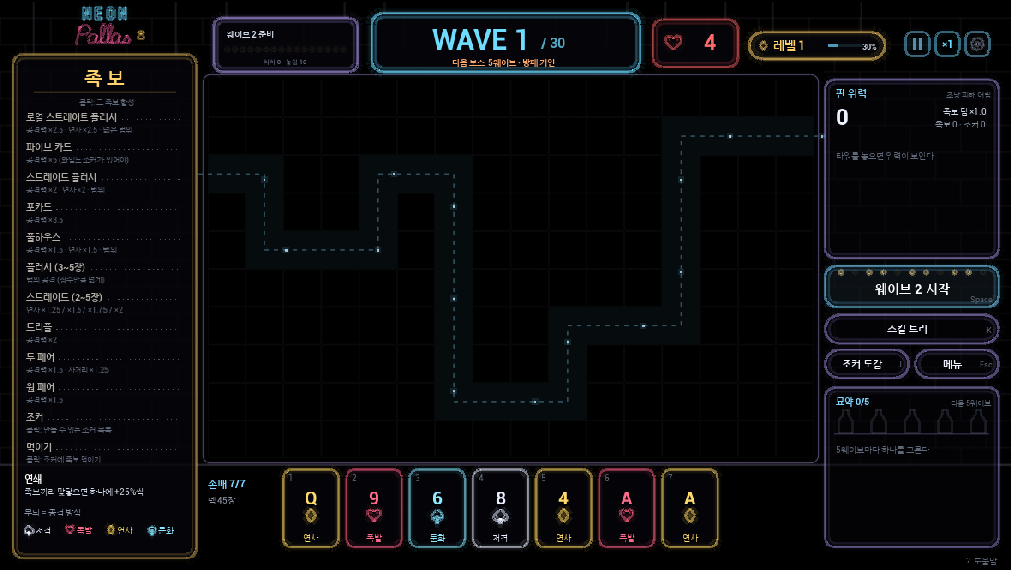
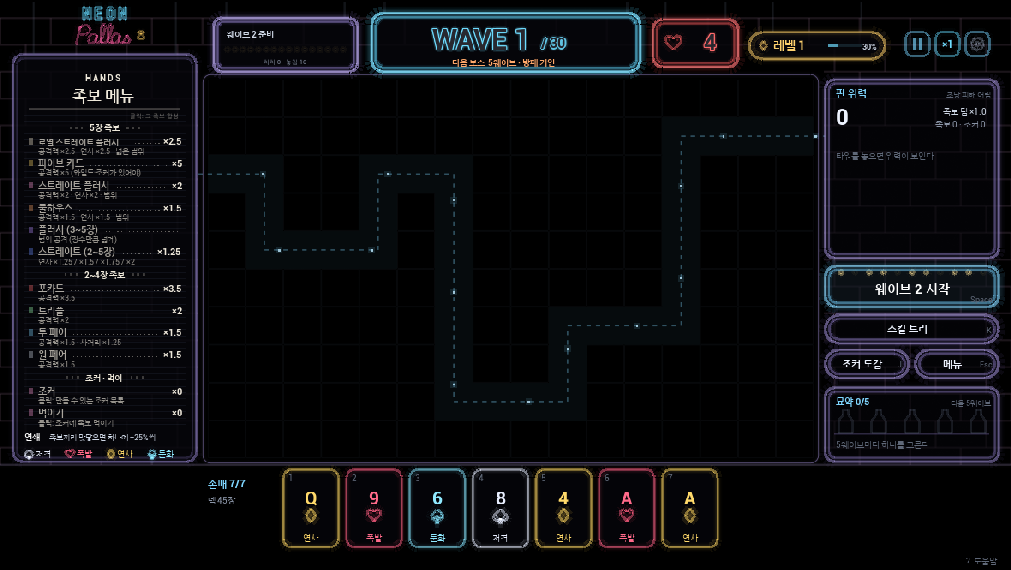
In-game B closer to the mockup: panels end at the floor, hollow neon numbers, brighter tubes; letterboard hand menu back (D-275)

diff --git a/Source/ProjectB/PDBoardPaint.cpp b/Source/ProjectB/PDBoardPaint.cpp
@@ -1898,8 +1898,10 @@ void SPDBoardWidget::PaintHud(FCanvas& C) const
 	{
 		for (const float Wx : {X + 16.f, X + W - 16.f}) C.Lines({FVector2f(Wx, 0.f), FVector2f(Wx, Y)}, Wire, 1.f);
 		C.Box(X, Y, W, H, Hex(TEXT("06060b"), 0.85f));
-		C.Glow(FCanvas::RoundRectPoints(X, Y, W, H, R), FLinearColor(Col.R * B, Col.G * B, Col.B * B, 1.f), 1.9f, NK * B);
-		C.Lines(FCanvas::RoundRectPoints(X + 5.f, Y + 5.f, W - 10.f, H - 10.f, FMath::Max(2.f, R - 5.f)), WithAlpha(Col, 0.5f * B), 0.9f);
+		const TArray<FVector2f> Ro = FCanvas::RoundRectPoints(X, Y, W, H, R), Ri = FCanvas::RoundRectPoints(X + 5.f, Y + 5.f, W - 10.f, H - 10.f, FMath::Max(2.f, R - 5.f));
+		C.Glow(Ro, FLinearColor(Col.R * B, Col.G * B, Col.B * B, 1.f), 2.2f, 1.1f * B);
+		C.Lines(Ro, FLinearColor(1.f, 1.f, 1.f, 0.35f * B), 0.6f); // 흰 심 (D-275)
+		C.Glow(Ri, FLinearColor(Col.R * B * 0.8f, Col.G * B * 0.8f, Col.B * B * 0.8f, 1.f), 1.2f, 0.5f * B);
 	};
 	PaintLogoBadge(C, LX + LW / 2.f, 6.f, 0.27f);
 	// 남은 적: 전구 16개가 남은 비율만큼 켜짐 (준비 중 + 자동 시작이면 시작까지 차오름)
@@ -1908,7 +1910,7 @@ void SPDBoardWidget::PaintHud(FCanvas& C) const
 		const bool bWave = G.Phase == EPDPhase::Wave, bAuto = G.Phase == EPDPhase::Build && G.AutoStartT >= 0.f;
 		float Frac = 0.f;
 		if (bWave) { const int32 Left = G.WaveLeft(), Tot = FMath::Max(1, G.WaveTotal); Frac = FMath::Clamp(Left / (float)Tot, 0.f, 1.f);
-			C.Text(TEXT("남은 적"), SignEnX + 16.f, SignEnY + 24.f, Fg, 11.f, 0, true);
+			C.Text(TEXT("남은 적"), SignEnX + 16.f, SignEnY + 24.f, Fg, 12.f, 0, true);
 			C.Text(FString::Printf(TEXT("%d / %d"), Left, G.WaveTotal), SignEnX + SignEnW - 16.f, SignEnY + 24.f, FLinearColor::White, 13.f, 2, true); }
 		else
 		{
@@ -1932,8 +1934,8 @@ void SPDBoardWidget::PaintHud(FCanvas& C) const
 		const FString Wv = FString::Printf(TEXT("WAVE %d"), G.Wave);
 		const float WvW = FCanvas::Measure(Wv, FCanvas::Font(36.f, true)).X;
 		const float GoalX = SignWvX + SignWvW / 2.f + (G.Goal() > 0 ? -30.f : 0.f);
-		C.Text(Wv, GoalX - WvW / 2.f, SignWvY + 46.f, bNow ? Red : Cyan, 36.f, 0, true);
-		if (G.Goal() > 0) C.Text(FString::Printf(TEXT("/ %d"), G.Goal()), GoalX + WvW / 2.f + 12.f, SignWvY + 44.f, WithAlpha(Cyan, 0.75f), 17.f, 0, true);
+		NeonText(C, Wv, GoalX - WvW / 2.f, SignWvY + 46.f, bNow ? Red : Cyan, 36.f, 0, 1.f);
+		if (G.Goal() > 0) NeonText(C, FString::Printf(TEXT("/ %d"), G.Goal()), GoalX + WvW / 2.f + 12.f, SignWvY + 44.f, Cyan, 17.f, 0, 0.75f);
 		const EPDEnemy B = FPDGame::BossOfWave(BW);
 		C.TextCentered(bNow ? TrF(TEXT("보스 웨이브 · %s"), BossName(B)) : TrF(TEXT("다음 보스  %d웨이브 · %s"), BW, BossName(B)),
 			SignWvX + SignWvW / 2.f, SignWvY + 62.f, bNow ? Red : Orange, 10.f, true, SignWvW - 40.f);
@@ -1943,7 +1945,7 @@ void SPDBoardWidget::PaintHud(FCanvas& C) const
 		const bool bLow = G.Lives <= 5;
 		Sign(SignLfX, SignLfY, SignLfW, SignLfH, 12.f, bLow ? Red : Pink, bLow ? 0.6f + 0.4f * Pulse : 0.9f);
 		C.Shape(EPDSuit::Heart, SignLfX + 26.f, SignLfY + SignLfH / 2.f, 11.f, bLow ? Red : Pink, 1.5f, 0.5f);
-		C.TextCentered(FString::FromInt(G.Lives), SignLfX + 72.f, SignLfY + SignLfH / 2.f, bLow ? Red : Pink, G.Lives >= 100 ? 20.f : 26.f, true, 60.f);
+		NeonText(C, FString::FromInt(G.Lives), SignLfX + 72.f, SignLfY + SignLfH / 2.f + 10.f, bLow ? Red : Pink, G.Lives >= 100 ? 20.f : 26.f, 1, 1.f);
 	}
 	// 레벨 알약 (금색): 마름모 + 레벨 + 경험치 막대 + %. 남은 포인트가 있으면 숨쉰다
 	{
@@ -2011,7 +2013,8 @@ void SPDBoardWidget::PaintPanels(FCanvas& C) const
 		const float X = HandCardX(I, (int32)G.Hand.size()), Y = HandY - (bSel ? 10.f : 0.f);
 		const FLinearColor Col = SuitColor(Card.Suit);
 		C.Box(X, Y, CardW, CardH, Hex(TEXT("06060b"), 0.7f));
-		C.Glow(FCanvas::RoundRectPoints(X, Y, CardW, CardH, 10.f), bSel ? FLinearColor::White : Col, bSel ? 2.4f : 1.4f, bSel ? 1.4f : 0.6f);
+		C.Glow(FCanvas::RoundRectPoints(X, Y, CardW, CardH, 10.f), bSel ? Hex(TEXT("ff6aaa")) : Col, bSel ? 2.4f : 1.4f, bSel ? 1.2f : 0.6f);
+		if (bSel) C.Shape(EPDSuit::Heart, X + CardW / 2.f, Y - 12.f, 6.f, Hex(TEXT("ff6aaa")), 1.3f, 0.5f); // 고른 카드 하트 (D-275)
 		C.CardShape(Card, X + CardW / 2.f, Y + CardH / 2.f - 6.f, 30.f, 1.f, bSel, Pulse, false);
 		C.TextCentered(SuitName(Card.Suit), X + CardW / 2.f, Y + CardH - 12.f, Col, 10.f, false, CardW - 6.f);
 		C.Text(FString::FromInt(I + 1), X + 7.f, Y + 14.f, Dim, 10.f);
@@ -2025,8 +2028,10 @@ void SPDBoardWidget::PaintPanels(FCanvas& C) const
 	// 두 겹 튜브 틀 (D-254/255, 연보라 D-260)
 	auto Frame2 = [&](float X, float Y, float W, float H, float R, const FLinearColor& Col, float B)
 	{
-		C.Glow(FCanvas::RoundRectPoints(X, Y, W, H, R), FLinearColor(Col.R * B, Col.G * B, Col.B * B, 1.f), 1.7f, 0.6f * B);
-		C.Lines(FCanvas::RoundRectPoints(X + 5.f, Y + 5.f, W - 10.f, H - 10.f, FMath::Max(2.f, R - 5.f)), WithAlpha(Col, 0.45f * B), 0.9f);
+		const TArray<FVector2f> Ro = FCanvas::RoundRectPoints(X, Y, W, H, R), Ri = FCanvas::RoundRectPoints(X + 5.f, Y + 5.f, W - 10.f, H - 10.f, FMath::Max(2.f, R - 5.f));
+		C.Glow(Ro, FLinearColor(Col.R * B, Col.G * B, Col.B * B, 1.f), 2.f, 1.f * B);
+		C.Lines(Ro, FLinearColor(1.f, 1.f, 1.f, 0.3f * B), 0.6f); // 흰 심 (D-275)
+		C.Glow(Ri, FLinearColor(Col.R * B * 0.8f, Col.G * B * 0.8f, Col.B * B * 0.8f, 1.f), 1.1f, 0.45f * B);
 	};
 	C.Box(RX, FY, PW, PowCardH, Hex(TEXT("06060b"), 0.6f));
 	Frame2(RX, FY, PW, PowCardH, 12.f, LavP, 0.7f);
@@ -2136,7 +2141,7 @@ void SPDBoardWidget::PaintPanels(FCanvas& C) const
 	}
 	// ---- 부적: 이름·설명
 	{
-		const float H = DesignH - 30.f - CharmY;
+		const float H = FloorY - 4.f - CharmY; // 바닥선에서 끝 (D-275)
 		const int32 N = (int32)G.Charms.size();
 		C.Box(RX, CharmY, PW, H, Hex(TEXT("06060b"), 0.6f));
 		Frame2(RX, CharmY, PW, H, 12.f, LavP, 0.6f);
@@ -2159,12 +2164,17 @@ void SPDBoardWidget::PaintPanels(FCanvas& C) const
 				if (bHave) C.Box(BXc - 7.f, SY - 12.f, 14.f, 9.f, WithAlpha(Bc, 0.35f));
 			}
 		}
-		if (N == 0) C.Text(TrF(TEXT("%d웨이브마다 하나를 고른다"), CharmEvery), RX + 14.f, CharmY + 82.f, Dim, 10.f, 0, false, PW - 28.f);
-		for (int32 I = 0; I < N; ++I)
+		if (N == 0) C.Text(TrF(TEXT("%d웨이브마다 하나를 고른다"), CharmEvery), RX + 14.f, CharmY + 76.f, Dim, 10.f, 0, false, PW - 28.f);
+		else C.Text(TEXT("병에 마우스: 이름 · 설명"), RX + 14.f, CharmY + 76.f, Dim, 9.f, 0, false, PW - 28.f);
+		for (int32 I = 0; I < N; ++I) // 병 툴팁 (D-275): 패널이 바닥선에서 끝나 목록 대신
 		{
-			const float Y = CharmY + 78.f + I * 24.f;
-			C.Text(CharmName((int)G.Charms[I]), RX + 14.f, Y, UiValue, 10.f, 0, true, PW - 28.f);
-			C.Text(CharmDesc((int)G.Charms[I]), RX + 14.f, Y + 12.f, Grey, 9.f, 0, false, PW - 28.f);
+			const float BXc = RX + 26.f + I * (PW - 52.f) / (CharmMax - 1), SY = CharmY + 58.f;
+			if (!InRect(Mouse, BXc - 12.f, SY - 32.f, 24.f, 34.f)) continue;
+			const float TW = 260.f, TH = 52.f, TX = FMath::Min(BXc - 20.f, DesignW - 8.f - TW) - 120.f, TY = SY - 32.f - TH - 6.f;
+			C.Box(TX, TY, TW, TH, Hex(TEXT("0a0910"), 0.97f));
+			C.Glow(FCanvas::RoundRectPoints(TX, TY, TW, TH, 8.f), Hex(TEXT("ffd26e")), 1.2f, 0.4f);
+			C.Text(CharmName((int)G.Charms[I]), TX + 12.f, TY + 20.f, UiValue, 12.f, 0, true, TW - 24.f);
+			C.Text(CharmDesc((int)G.Charms[I]), TX + 12.f, TY + 40.f, Fg, 10.f, 0, false, TW - 24.f);
 		}
 	}
 	// ---- 도움말: 마우스를 올리면 키 안내
@@ -2913,10 +2923,21 @@ void SPDBoardWidget::PaintLoading(FCanvas& C) const
 
 // 왼쪽 족보 안내 (D-119): 이름 + 효과 한 줄. 판 위에 있는 족보는 밝게, 개수 표시
 // 도움말 카드 (D-217): 가리킬 자리 둘레에 숨 쉬는 고리 + 카드에서 이어지는 선, 카드엔 제목·설명·[알겠어]·[도움말 끄기]
+// 속 빈 네온 글자 (D-275): 둘레 번짐(옅게 8방향) → 글자색 테두리(8방향 1.3px) → 속은 어두운 색 → 가는 흰 심. Align 0 왼쪽, 1 가운데, 2 오른쪽
+void SPDBoardWidget::NeonText(FCanvas& C, const FString& S, float X, float Y, const FLinearColor& Col, float Px, int32 Align, float B)
+{
+	const FLinearColor CB(Col.R * B, Col.G * B, Col.B * B, 1.f);
+	static const float Dx[8] = {1.f, 0.707f, 0.f, -0.707f, -1.f, -0.707f, 0.f, 0.707f}, Dy[8] = {0.f, 0.707f, 1.f, 0.707f, 0.f, -0.707f, -1.f, -0.707f};
+	for (int32 K = 0; K < 8; ++K) C.Text(S, X + Dx[K] * 3.5f, Y + Dy[K] * 3.5f, FLinearColor(Col.R, Col.G, Col.B, 0.1f * B), Px, Align, true);
+	for (int32 K = 0; K < 8; ++K) C.Text(S, X + Dx[K] * 1.3f, Y + Dy[K] * 1.3f, CB, Px, Align, true);
+	C.Text(S, X, Y, Hex(TEXT("0a0a12")), Px, Align, true);
+	C.Text(S, X, Y, FLinearColor(1.f, 1.f, 1.f, 0.12f * B), Px, Align, true);
+}
+
 // 인게임 바 배경 (D-274, 시안 B): 흐린 벽돌 벽 (판 뒤는 비움) + 바닥선. 손패는 바닥선 아래
 void SPDBoardWidget::PaintBarBack(FCanvas& C) const
 {
-	const FLinearColor Brick = Hex(TEXT("3c303a"), 0.5f);
+	const FLinearColor Brick = Hex(TEXT("4a3c48"), 0.75f); // D-275: 시안처럼 보이게 조금 진하게
 	const float BX0 = FX - 12.f, BX1 = FX + Cols * CS + 12.f, BY0 = FY - 12.f, BY1 = FY + Rows * CS + 12.f;
 	for (int32 R = 0; ; ++R)
 	{
@@ -3180,17 +3201,28 @@ void SPDBoardWidget::PaintHandGuide(FCanvas& C) const
 	int32 Count[(int)EPDHand::Count] = {};
 	for (const FPDSynergy& S : Preview) PvKinds.Add((int32)S.Kind);
 	for (const FPDSynergy& S : G.Synergies) ++Count[(int)S.Kind];
-	const float PH = DesignH - 16.f - HandPanelY;
-	const bool bMenuBoard = !InFeed() && !InCraft(); // 족보 메뉴판: 조커 · 먹이기 목록일 때는 예전 줄 자리
-	const FLinearColor Cream = Hex(TEXT("eee8da")), Lav = Hex(TEXT("a896e1")), PinkH = Hex(TEXT("ff6aaa")), GoldB = Hex(TEXT("ffd26e"));
-	// 인게임 시안 B 금색 메뉴판 (D-274): 매단 줄 + 금색 두 겹 틀 + '족 보' 머리글
-	for (const float Wx : {LX + 26.f, LX + LW - 26.f}) C.Lines({FVector2f(Wx, 0.f), FVector2f(Wx, HandPanelY)}, Hex(TEXT("5f6878"), 0.45f), 1.f);
+	const float PH = FloorY - 4.f - HandPanelY; // 바닥선에서 끝 (D-275, 시안 B)
+	const bool bMenuBoard = !InFeed() && !InCraft(); // 족보 메뉴판 (D-263): 조커 · 먹이기 목록일 때는 예전 머리글
+	const FLinearColor Cream = Hex(TEXT("eee8da")), Lav = Hex(TEXT("a896e1")), PinkH = Hex(TEXT("ff6aaa"));
 	C.Box(LX, HandPanelY, LW, PH, Hex(TEXT("06060b"), 0.85f));
-	C.Glow(FCanvas::RoundRectPoints(LX, HandPanelY, LW, PH, 12.f), WithAlpha(GoldB, 0.7f), 1.7f, 0.4f);
-	C.Lines(FCanvas::RoundRectPoints(LX + 5.f, HandPanelY + 5.f, LW - 10.f, PH - 10.f, 8.f), WithAlpha(GoldB, 0.35f), 0.9f);
-	C.TextCentered(TEXT("족 보"), LX + LW / 2.f, HandPanelY + 30.f, GoldB, 24.f, true);
-	C.Lines({FVector2f(LX + 26.f, HandPanelY + 48.f), FVector2f(LX + LW - 26.f, HandPanelY + 48.f)}, WithAlpha(GoldB, 0.4f), 1.f);
-	C.TextCentered(HandFilter >= 0 ? TEXT("다시 클릭 / Esc: 끄기") : TEXT("클릭: 그 족보 합성"), LX + LW / 2.f, HandPanelY + 60.f, HandFilter >= 0 ? Gold : Dim, 9.f, false, LW - 40.f);
+	// 두 겹 틀 (연보라, D-260)
+	C.Glow(FCanvas::RoundRectPoints(LX, HandPanelY, LW, PH, 12.f), WithAlpha(Lav, 0.8f), 1.7f, 0.5f);
+	for (const float Wx : {LX + 26.f, LX + LW - 26.f}) C.Lines({FVector2f(Wx, 0.f), FVector2f(Wx, HandPanelY)}, Hex(TEXT("5f6878"), 0.45f), 1.f); // 매단 줄
+	C.Lines(FCanvas::RoundRectPoints(LX + 5.f, HandPanelY + 5.f, LW - 10.f, PH - 10.f, 8.f), WithAlpha(Lav, 0.4f), 0.9f);
+	if (bMenuBoard)
+	{
+		// 레터보드: 홈 파인 판 + 크림색 꽂는 글자
+		for (float GY = HandPanelY + 76.f; GY < HandMenuEndY; GY += 8.f) C.Box(LX + 14.f, GY, LW - 28.f, 1.f, Hex(TEXT("788cb4"), 0.09f));
+		C.TextCentered(TEXT("H A N D S"), LX + LW / 2.f, HandPanelY + 30.f, Cream, 10.f, true);
+		C.TextCentered(TEXT("족보 메뉴"), LX + LW / 2.f, HandPanelY + 52.f, Cream, 20.f, true);
+		C.Lines({FVector2f(LX + 20.f, HandPanelY + 69.f), FVector2f(LX + LW - 20.f, HandPanelY + 69.f)}, WithAlpha(Cream, 0.45f), 1.f);
+		C.Text(HandFilter >= 0 ? TEXT("다시 클릭 / Esc: 끄기") : TEXT("클릭: 그 족보 합성"), LX + LW - 20.f, HandPanelY + 81.f, HandFilter >= 0 ? Gold : WithAlpha(Cream, 0.55f), 8.5f, 2, false, LW - 40.f);
+	}
+	else
+	{
+		C.Text(TEXT("족보"), LX + 14.f, FY + 24.f, Cyan, 15.f, 0, true);
+		C.Text(HandFilter >= 0 ? TEXT("다시 클릭 / Esc: 끄기") : TEXT("클릭: 그 족보 합성"), LX + LW - 14.f, FY + 24.f, HandFilter >= 0 ? Gold : Dim, 9.f, 2, false, LW - 70.f);
+	}
 	int32 FuseN[(int)EPDHand::Count] = {};
 	for (int32 I = 0; I < (int32)G.Synergies.size(); ++I) if (G.CanFuse(I)) ++FuseN[(int)G.Synergies[I].Kind];
 	const float Fl = FMath::Square(0.5f + 0.5f * FMath::Sin(Clock * 5.f));
@@ -3314,10 +3346,33 @@ void SPDBoardWidget::PaintHandGuide(FCanvas& C) const
 	}
 	else
 	{
-		// 금색 메뉴판 줄 (D-274, 인게임 시안 B): 이름 ····· 꼬리표(×개수 · 합성 · 먹이), 아래 작은 효과 설명. 마우스 = 분홍, 필터 = 족보 색, 미리보기 = 금
-		const float X0 = LX + 16.f, XR = LX + LW - 14.f;
+		// 족보 메뉴판 (D-263, 레터보드): 묶음 머리글, 줄 = [색 칸] 이름 [판 N 꼬리표] ····· ×배수, 아래 작은 설명, 합성 · 먹이는 추천 꼬리표
+		const float X0 = LX + 22.f, XR = LX + LW - 18.f;
 		const int32 HovId = HandMenuAt(Mouse.X, Mouse.Y);
-		const FSlateFontInfo NameFn = FCanvas::Font(12.f, true), TagFn = FCanvas::Font(9.f, true);
+		const FSlateFontInfo NameFn = FCanvas::Font(11.5f, true), PriceFn = FCanvas::Font(12.f, true), TagFn = FCanvas::Font(9.f, true);
+		// 가격표 꼬리표 (왼쪽이 뾰족, 구멍 하나). bRec = 추천 (작은 별). 돌려준 값 = 너비
+		auto PriceTag = [&](float X, float Y, const FString& S, const FLinearColor& Col, bool bRec)
+		{
+			const float W = FCanvas::Measure(TrS(S), TagFn).X + (bRec ? 24.f : 16.f);
+			if (bRec) C.Box(X + 6.f, Y - 7.5f, W - 6.f, 15.f, WithAlpha(Col, 0.12f));
+			C.Lines({FVector2f(X, Y), FVector2f(X + 6.f, Y - 7.5f), FVector2f(X + W, Y - 7.5f), FVector2f(X + W, Y + 7.5f), FVector2f(X + 6.f, Y + 7.5f), FVector2f(X, Y)}, WithAlpha(Col, 0.85f), 1.f);
+			C.Lines(FCanvas::CirclePoints(FVector2f(X + 5.f, Y), 1.2f, 8), WithAlpha(Col, 0.8f), 0.8f);
+			float TX = X + 10.f;
+			if (bRec) { C.Shape(EPDSuit::Wild, X + 14.f, Y, 3.6f, Col, 0.9f, 0.f); TX += 9.f; }
+			C.Text(S, TX, Y + 3.5f, Col, 9.f, 0, true);
+			return W;
+		};
+		static const TCHAR* GroupName[3] = {TEXT("5장 족보"), TEXT("2~4장 족보"), TEXT("조커 · 먹이")};
+		for (int32 Gp = 0; Gp < 3; ++Gp)
+		{
+			const int32 FirstSlot = Gp == 0 ? 0 : Gp == 1 ? 6 : 10;
+			const float GY = HandMenuTop(HandMenuOrder[FirstSlot]) - HandMenuGroupH;
+			const FString GN = Tr(GroupName[Gp]);
+			const float GW = FCanvas::Measure(GN, FCanvas::Font(10.f, true)).X, CX = LX + LW / 2.f;
+			C.TextCentered(GN, CX, GY + 9.f, Cream, 10.f, true);
+			for (const float Sg : {-1.f, 1.f})
+				for (int32 K = 0; K < 3; ++K) { const float DX = CX + Sg * (GW / 2.f + 8.f + K * 7.f); C.Lines({FVector2f(DX, GY + 9.f), FVector2f(DX + Sg * 3.f, GY + 9.f)}, WithAlpha(Cream, 0.55f), 1.f); }
+		}
 		for (int32 Slot = 0; Slot < HandRowsN; ++Slot)
 		{
 			const int32 Id = HandMenuOrder[Slot];
@@ -3329,50 +3384,51 @@ void SPDBoardWidget::PaintHandGuide(FCanvas& C) const
 			const int32 Fz = bHand ? FuseN[Id] : 0;
 			const bool bPv = bHand && PvKinds.Contains(Id), bOn = Cnt > 0, bHov = HovId == Id, bFilt = HandFilter == Id;
 			const FLinearColor HC = bHand ? HandColor(H) : JokerPink;
-			const float RX0 = X0 - 8.f, RW = XR - X0 + 16.f, RY = Y + 2.f, RH = HandMenuRowH - 4.f;
-			if (bPv) C.Box(RX0, RY, RW, RH, WithAlpha(Gold, 0.09f));
-			else if (bOn && !bHand) C.Box(RX0, RY, RW, RH, WithAlpha(JokerPink, 0.05f + (Id == FeedFilterId ? 0.07f * Fl : 0.f)));
-			if (Fz > 0 && HandFilter < 0 && !bHov) { C.Box(RX0, RY, RW, RH, WithAlpha(Gold, 0.02f + 0.1f * Fl)); C.Glow(FCanvas::RoundRectPoints(RX0, RY, RW, RH, 8.f), Gold, 1.2f, 0.25f + 0.7f * Fl); }
-			if (bHov) { C.Box(RX0, RY, RW, RH, WithAlpha(PinkH, 0.1f)); C.Glow(FCanvas::RoundRectPoints(RX0, RY, RW, RH, 8.f), PinkH, 1.5f, 0.6f); }
-			else if (bFilt) C.Glow(FCanvas::RoundRectPoints(RX0, RY, RW, RH, 8.f), HC, 1.6f, 0.7f + 0.3f * (0.5f + 0.5f * FMath::Sin(Clock * 6.f)));
+			const float NY = Y + 12.f, DY = Y + 23.f; // 줄 28 (D-275)
+			// 줄 바탕: 미리보기(금) · 합성 맥박(금) · 마우스(분홍 튜브) · 필터(족보 색 튜브)
+			if (bPv) C.Box(X0 - 8.f, Y, XR - X0 + 14.f, HandMenuRowH, WithAlpha(Gold, 0.09f));
+			if (Fz > 0 && HandFilter < 0 && !bHov) C.Box(X0 - 8.f, Y, XR - X0 + 14.f, HandMenuRowH, WithAlpha(Gold, 0.02f + 0.08f * Fl));
+			if (Id == FeedFilterId && bOn && !bHov) C.Box(X0 - 8.f, Y, XR - X0 + 14.f, HandMenuRowH, WithAlpha(JokerPink, 0.02f + 0.08f * Fl));
+			if (bHov) { C.Box(X0 - 8.f, Y, XR - X0 + 14.f, HandMenuRowH, WithAlpha(PinkH, 0.1f)); C.Glow(FCanvas::RoundRectPoints(X0 - 10.f, Y, XR - X0 + 18.f, HandMenuRowH, 8.f), PinkH, 1.5f, 0.6f); }
+			else if (bFilt) C.Glow(FCanvas::RoundRectPoints(X0 - 10.f, Y, XR - X0 + 18.f, HandMenuRowH, 8.f), HC, 1.5f, 0.7f + 0.3f * (0.5f + 0.5f * FMath::Sin(Clock * 6.f)));
+			// 이름 앞 색 칸 (마우스를 올린 줄은 하트)
+			if (bHov) C.Shape(EPDSuit::Heart, X0 + 1.f, NY - 4.f, 4.5f, PinkH, 1.2f, 0.4f);
+			else C.Box(X0 - 2.f, NY - 8.f, 5.f, 8.f, WithAlpha(HC, bOn ? 0.9f : 0.35f));
+			const float NX = X0 + 10.f;
+			// 오른쪽 가격 = 배수 (효과 글의 첫 ×), 조커 · 먹이는 개수
 			FString Name = bHand ? FString(HandName(H)) : FString(Tr(Id == JokerFilterId ? TEXT("조커") : TEXT("먹이기")));
-			if (bHand && H == EPDHand::Flush) Name += Tr(TEXT(" (3~5장)"));
-			if (bHand && H == EPDHand::Straight) Name += Tr(TEXT(" (2~5장)"));
+			if (H == EPDHand::Flush && bHand) Name += Tr(TEXT(" (3~5장)"));
+			if (H == EPDHand::Straight && bHand) Name += Tr(TEXT(" (2~5장)"));
 			const FString Eff = bHand ? FString(HandEffect(H)) : FString(Tr(Id == JokerFilterId ? TEXT("클릭: 만들 수 있는 조커 목록") : TEXT("클릭: 조커에 족보 먹이기")));
-			// 오른쪽 꼬리표 (알약)
-			FString TagS;
-			FLinearColor TagC = HC;
-			if (Fz > 0) { TagS = TrF(TEXT("합성 ×%d"), Fz); TagC = Gold; }
-			else if (Id == FeedFilterId && bOn) TagS = TrF(TEXT("먹이 ×%d"), Cnt);
-			else if (bOn) TagS = FString::Printf(TEXT("×%d"), Cnt);
+			FString Price;
+			if (!bHand) Price = FString::Printf(TEXT("×%d"), Cnt);
+			else { int32 XI = INDEX_NONE; if (Eff.FindChar(TEXT('×'), XI)) { int32 E2 = XI + 1; while (E2 < Eff.Len() && (FChar::IsDigit(Eff[E2]) || Eff[E2] == TEXT('.'))) ++E2; if (E2 > XI + 1) Price = Eff.Mid(XI, E2 - XI); } }
+			const FLinearColor PC = bHov ? FLinearColor::White : Cream;
+			const float PrW = Price.IsEmpty() ? 0.f : FCanvas::Measure(Price, PriceFn).X;
+			if (!Price.IsEmpty()) C.Text(Price, XR, NY + 1.f, PC, 12.f, 2, true);
+			const FLinearColor NameCol = bHov ? FLinearColor::White : bPv ? Gold : (bOn ? Cream : WithAlpha(Cream, 0.7f));
+			const float NMax = XR - NX - PrW - 44.f;
+			C.Text(Name, NX, NY + 1.f, NameCol, 11.5f, 0, true, NMax);
+			float TX = NX + FMath::Min(NMax, FCanvas::Measure(TrS(Name), NameFn).X) + 6.f;
+			if (bHand && bOn && Fz == 0) TX += PriceTag(TX, NY - 3.f, TrF(TEXT("판 %d"), Cnt), HC, false) + 4.f;
+			for (float DX = TX + 2.f; DX < XR - PrW - 5.f; DX += 5.f) C.Box(DX, NY - 1.5f, 1.3f, 1.f, WithAlpha(Cream, 0.4f)); // 점선 리더
 			float TagW = 0.f;
-			const float NY = Y + 16.f;
-			if (!TagS.IsEmpty())
-			{
-				TagW = FCanvas::Measure(TrS(TagS), TagFn).X + 16.f;
-				C.Glow(FCanvas::RoundRectPoints(XR - TagW, NY - 11.f, TagW, 16.f, 8.f), TagC, 1.f, 0.4f);
-				C.TextCentered(TagS, XR - TagW / 2.f, NY - 3.f, TagC, 9.f, true);
-			}
-			const FLinearColor NameCol = bHov ? FLinearColor::White : bPv ? Gold : bOn ? HC : WithAlpha(Cream, 0.75f);
-			const float NMax = XR - X0 - TagW - 14.f;
-			C.Text(Name, X0, NY, NameCol, 12.f, 0, true, NMax);
-			const float NW = FMath::Min(NMax, FCanvas::Measure(TrS(Name), NameFn).X);
-			for (float DX = X0 + NW + 6.f; DX < XR - TagW - 6.f; DX += 6.f) C.Box(DX, NY - 2.f, 1.3f, 1.f, WithAlpha(Cream, 0.35f)); // 점선 리더
-			C.Text(Eff, X0, Y + 30.f, bHov ? Hex(TEXT("ffc8e1")) : bPv ? Gold : Dim, 9.f, 0, false, XR - X0);
+			if (Fz > 0) { const FString S = TrF(TEXT("합성 ×%d"), Fz); TagW = FCanvas::Measure(TrS(S), TagFn).X + 24.f; PriceTag(XR - TagW, DY - 3.f, S, Gold, true); }
+			else if (Id == FeedFilterId && bOn) { const FString S = TrF(TEXT("먹이 ×%d"), Cnt); TagW = FCanvas::Measure(TrS(S), TagFn).X + 24.f; PriceTag(XR - TagW, DY - 3.f, S, JokerPink, true); }
+			const FLinearColor DC = bHov ? Hex(TEXT("ffc8e1")) : bPv ? Gold : WithAlpha(Cream, 0.62f);
+			C.Text(Eff, NX, DY, DC, 9.f, 0, false, XR - NX - (TagW > 0.f ? TagW + 5.f : 0.f));
 		}
 	}
-	const float FootY = bMenuBoard ? HandMenuEndY + 18.f : Y0 + HandRowsN * RowH + 18.f;
-	C.Text(TEXT("연쇄"), LX + 14.f, FootY, FLinearColor::White, 12.f, 0, true);
-	C.Text(TrF(TEXT("족보끼리 맞닿으면 하나에 +%d%%씩"), G.Has(EPDCharm::ChainLink) ? 45 : 25), LX + 14.f, FootY + 16.f, Hex(TEXT("cfd8e6")), 10.f, 0, false, LW - 28.f);
-	// 무늬 = 공격 방식
-	const float SuitY = FootY + 42.f;
-	C.Text(TEXT("무늬 = 공격 방식"), LX + 14.f, SuitY, Grey, 10.f);
+	if (!bMenuBoard) return; // 조커 · 먹이기 목록은 바닥선까지 쓴다
+	const float FootY = HandMenuEndY + 14.f; // 연쇄 한 줄 + 무늬 한 줄 (D-275)
+	C.Text(TEXT("연쇄"), LX + 14.f, FootY, FLinearColor::White, 11.f, 0, true);
+	C.Text(TrF(TEXT("족보끼리 맞닿으면 하나에 +%d%%씩"), G.Has(EPDCharm::ChainLink) ? 45 : 25), LX + 46.f, FootY, Hex(TEXT("cfd8e6")), 9.f, 0, false, LW - 60.f);
 	for (int32 I = 0; I < 4; ++I)
 	{
 		const EPDSuit S = (EPDSuit)I;
-		const float X = bMenuBoard ? LX + 14.f + I * 52.f : LX + 14.f + (I % 2) * 108.f, Y = bMenuBoard ? SuitY + 18.f : SuitY + 20.f + (I / 2) * 22.f; // 메뉴판은 한 줄 (D-263)
+		const float X = LX + 14.f + I * 52.f, Y = FootY + 18.f;
 		C.Shape(S, X + 6.f, Y, 6.f, SuitColor(S), 1.3f, 0.6f);
-		C.Text(SuitName(S), X + (bMenuBoard ? 14.f : 18.f), Y + 4.f, SuitColor(S), bMenuBoard ? 10.f : 11.f, 0, false, bMenuBoard ? 38.f : 86.f);
+		C.Text(SuitName(S), X + 14.f, Y + 4.f, SuitColor(S), 10.f, 0, false, 38.f);
 	}
 }
 

diff --git a/Source/ProjectB/PDBoardDraw.h b/Source/ProjectB/PDBoardDraw.h
@@ -32,17 +32,17 @@ constexpr float CS = 48.f;          // 칸 크기
 constexpr float FX = LX + LW + 14.f; // 판 왼쪽 위
 constexpr float HudY = 12.f, HudH = 50.f;  // 위쪽 상태 띠 (D-119): 웨이브·남은 적·목숨·골드·판 위력·속도·설정
 constexpr float FY = 98.f; // 인게임 시안 B (D-274): 위에 걸린 간판 자리만큼 판을 내림 (예전 74, FX + FY 는 12 의 배수)
-constexpr float HandRowH = 38.f, HandRowY0 = FY + 36.f; // 왼쪽 족보 목록 한 줄 (D-148: 클릭하면 필터)
+constexpr float HandRowH = 34.f, HandRowY0 = FY + 36.f; // 왼쪽 족보 목록 한 줄 (D-148: 클릭하면 필터)
 constexpr float BoardCardK = 0.74f; // 판 위 카드·조커 그림 크기 (D-167): 칸 테두리·족보 테두리와 겹치지 않게 조금 작게
 constexpr int32 JokerFilterId = (int32)EPDHand::Count;   // 족보 목록 맨 아래 '조커' 줄 (D-152): 조커 합성 버튼을 모두 펼친다
 constexpr int32 FeedFilterId = JokerFilterId + 1;         // 족보 목록 맨 아래 '먹이기' 줄 (D-213): 판 위 조커 목록 → 고른 조커에 족보 먹이기
 constexpr int32 HandRowsN = (int32)EPDHand::Count + 2;
 // 족보 메뉴판 (D-263, 레터보드 시안): 묶음 순서로 줄을 놓는다 (5장 족보 / 2~4장 족보 / 조커 · 먹이), 묶음마다 머리글 한 줄.
 // 조커 · 먹이기 목록(D-210/213)은 예전 자리(HandRowY0, HandRowH)를 그대로 쓴다
-// 시안 B 금색 메뉴판 (D-274): 묶음 머리글 없이 족보 순서대로, 줄 38 (이름 + 작은 효과 설명)
-constexpr int32 HandMenuOrder[HandRowsN] = {0, 1, 2, 3, 4, 5, 6, 7, 8, 9, JokerFilterId, FeedFilterId};
+// 레터보드 족보 (D-263 → D-275): 인게임 시안 B 안에서는 패널이 바닥선에서 끝나므로 줄 28
+constexpr int32 HandMenuOrder[HandRowsN] = {0, 1, 2, 4, 5, 6, 3, 7, 8, 9, JokerFilterId, FeedFilterId};
 constexpr float HandPanelY = 66.f; // 왼쪽 패널 윗선 (판보다 위, 로고 배지 아래)
-constexpr float HandMenuY0 = HandPanelY + 68.f, HandMenuRowH = 38.f, HandMenuGroupH = 0.f;
+constexpr float HandMenuY0 = HandPanelY + 84.f, HandMenuRowH = 28.f, HandMenuGroupH = 18.f;
 inline int HandMenuGroup(int Slot) { return Slot < 6 ? 0 : Slot < 10 ? 1 : 2; }
 inline float HandMenuTop(int Id) { int Slot = 0; for (int K = 0; K < HandRowsN; ++K) if (HandMenuOrder[K] == Id) Slot = K; return HandMenuY0 + (HandMenuGroup(Slot) + 1) * HandMenuGroupH + Slot * HandMenuRowH; }
 inline int HandMenuAt(float X, float Y) { if (X < LX + 8.f || X > LX + LW - 8.f) return -1; for (int K = 0; K < HandRowsN; ++K) { const float T = HandMenuTop(HandMenuOrder[K]); if (Y >= T && Y < T + HandMenuRowH) return HandMenuOrder[K]; } return -1; }

diff --git a/Source/ProjectB/PDBoardWidget.h b/Source/ProjectB/PDBoardWidget.h
@@ -140,6 +140,7 @@ private:
 	void PaintHint(FCanvas& C) const;
 	void PaintLogoBadge(FCanvas& C, float CX, float Y, float K) const; // 작은 네온 팔라스 로고 (D-274)
 	void PaintBarBack(FCanvas& C) const;   // 벽돌 벽 + 바닥선 (D-274)
+	static void NeonText(FCanvas& C, const FString& S, float X, float Y, const FLinearColor& Col, float Px, int32 Align, float B); // 속 빈 네온 글자 (D-275)
 	void PaintLevelUp(FCanvas& C) const;   // 레벨업 이펙트 (D-273): 가운데 마키 간판 → 위 레벨 자리로 날아가 매달림
 	void PaintTitle(FCanvas& C) const;     // 시작 화면
 	void PaintLoading(FCanvas& C) const;   // 로딩 화면

diff --git a/docs/05-decision-log.md b/docs/05-decision-log.md
@@ -278,3 +278,4 @@
 | D-272 | 2026-11-15 | 레벨업은 시안 A(위 레벨 글자에 매달린 LEVEL UP 간판) + 화면 가운데 이펙트. 가운데 시안 2종: 1 마키 간판(가운데에 전구 두른 큰 간판이 떨어져 튕기고 글자가 지직 켜짐 + 빠직 불티 + '레벨 7 → 8' → 줄어들며 위 레벨 자리로 날아가 매달린 간판이 되고 '포인트 +1'), 2 빛줄기 + 큰 숫자(가로 빛줄기가 양쪽으로 뻗고 뒤에 흐린 속 빈 큰 숫자, 앞에 LEVEL UP 지직 · '트리 포인트 +1', 위 간판은 동시에) (levelup_mock.py center) | 사용자: A 안 + 화면 중앙에도 | 잭팟 · 파동 |
 | D-273 | 2026-11-15 | 레벨업 이펙트를 시안 A1 마키 간판으로 구현 (PaintLevelUp, 2.4초, 실제 시간 기준): 경험치 막대 하얗게 번쩍 → 판 가운데에 전구 두른 금색 간판이 떨어져 튕기고 'LEVEL UP' 이 글자마다 지직 켜짐 + 양쪽 빠직 불티 + '레벨 N → M' → 줄어들며 위 레벨 글자 밑으로 날아가 줄에 매달린 간판 + '포인트 +N' 분홍 꼬리표 → 꺼짐. 이펙트 도중 또 오르면 처음 레벨은 그대로, 포인트는 더함. 예전 금빛 떠오르는 글자 + 불꽃은 뺐다. 에디터에서 F7 = 미리 보기 | 사용자: 1 마키 간판 | 빛줄기 + 큰 숫자 |
 | D-274 | 2026-11-15 | 인게임 화면을 시안 B(걸린 간판)로: 위쪽 띠 대신 천장 줄에 매단 간판들(왼쪽 위 네온 팔라스 로고 배지, 남은 적 = 전구 16개가 남은 비율만큼 켜짐 · 준비 중 자동 시작이면 초록으로 차오름, 가운데 큰 WAVE 간판 + 다음 보스 줄, 분홍 목숨 하트 간판 · 5 이하 빨갛게 깜빡, 금색 레벨 알약 + 경험치 막대 · %), 족보는 B 의 금색 메뉴판(매단 줄 + 금색 두 겹 틀 + '족 보', 족보 순서대로 줄 38 = 이름 ···· 꼬리표(×개수 · 합성 · 먹이) + 아래 작은 효과 설명, 마우스 = 분홍, 필터 = 족보 색, 미리보기 = 금), 판은 30 → 24px 내림(FY 98, FX + FY 는 빗금 때문에 12 의 배수), 연보라 둥근 틀, 판 뒤는 비운 흐린 벽돌 벽 + 바닥선, 오른쪽 열은 두 겹 튜브(웨이브 버튼은 위 가장자리 전구 마키 · 준비 중엔 돌고 웨이브 중엔 꺼짐, 스킬 트리는 포인트가 있으면 분홍 + '포인트 N' 꼬리표), 묘약은 선반 위 병 5개(가진 것만 켜짐) + 이름 · 설명. 레벨업 간판은 레벨 알약 밑에 매달림 | 사용자: 인게임 시안 B, 족보도 B안 | 시안 A · C, 레터보드 족보 (D-263) |
+| D-275 | 2026-11-15 | 인게임 B 를 시안에 더 가깝게 + 족보는 레터보드로 되돌림 (사용자가 말한 'B안' 족보 = 족보 메뉴판 시안 2 레터보드): 왼쪽 · 오른쪽 패널이 바닥선에서 끝나고 그 아래는 손패만(시안처럼), 레터보드 줄 28 · 묶음 머리글 18 · 연쇄 한 줄 + 무늬 한 줄, 조커 · 먹이기 목록 줄 34(바닥선 안), WAVE 숫자 · /목표 · 목숨 숫자는 속 빈 네온 글자(NeonText: 8방향 테두리 + 옅은 번짐 + 흰 심), 간판 · 튜브는 더 밝게 + 흰 심, 벽돌 조금 진하게, 고른 손패 카드는 분홍 + 위에 하트, 묘약은 병 5개 + 병에 마우스를 올리면 이름 · 설명 툴팁 | 사용자: 왜 시안이랑 다르냐, 족보는 이거(레터보드) | 금색 족보 메뉴판 (D-274) |
